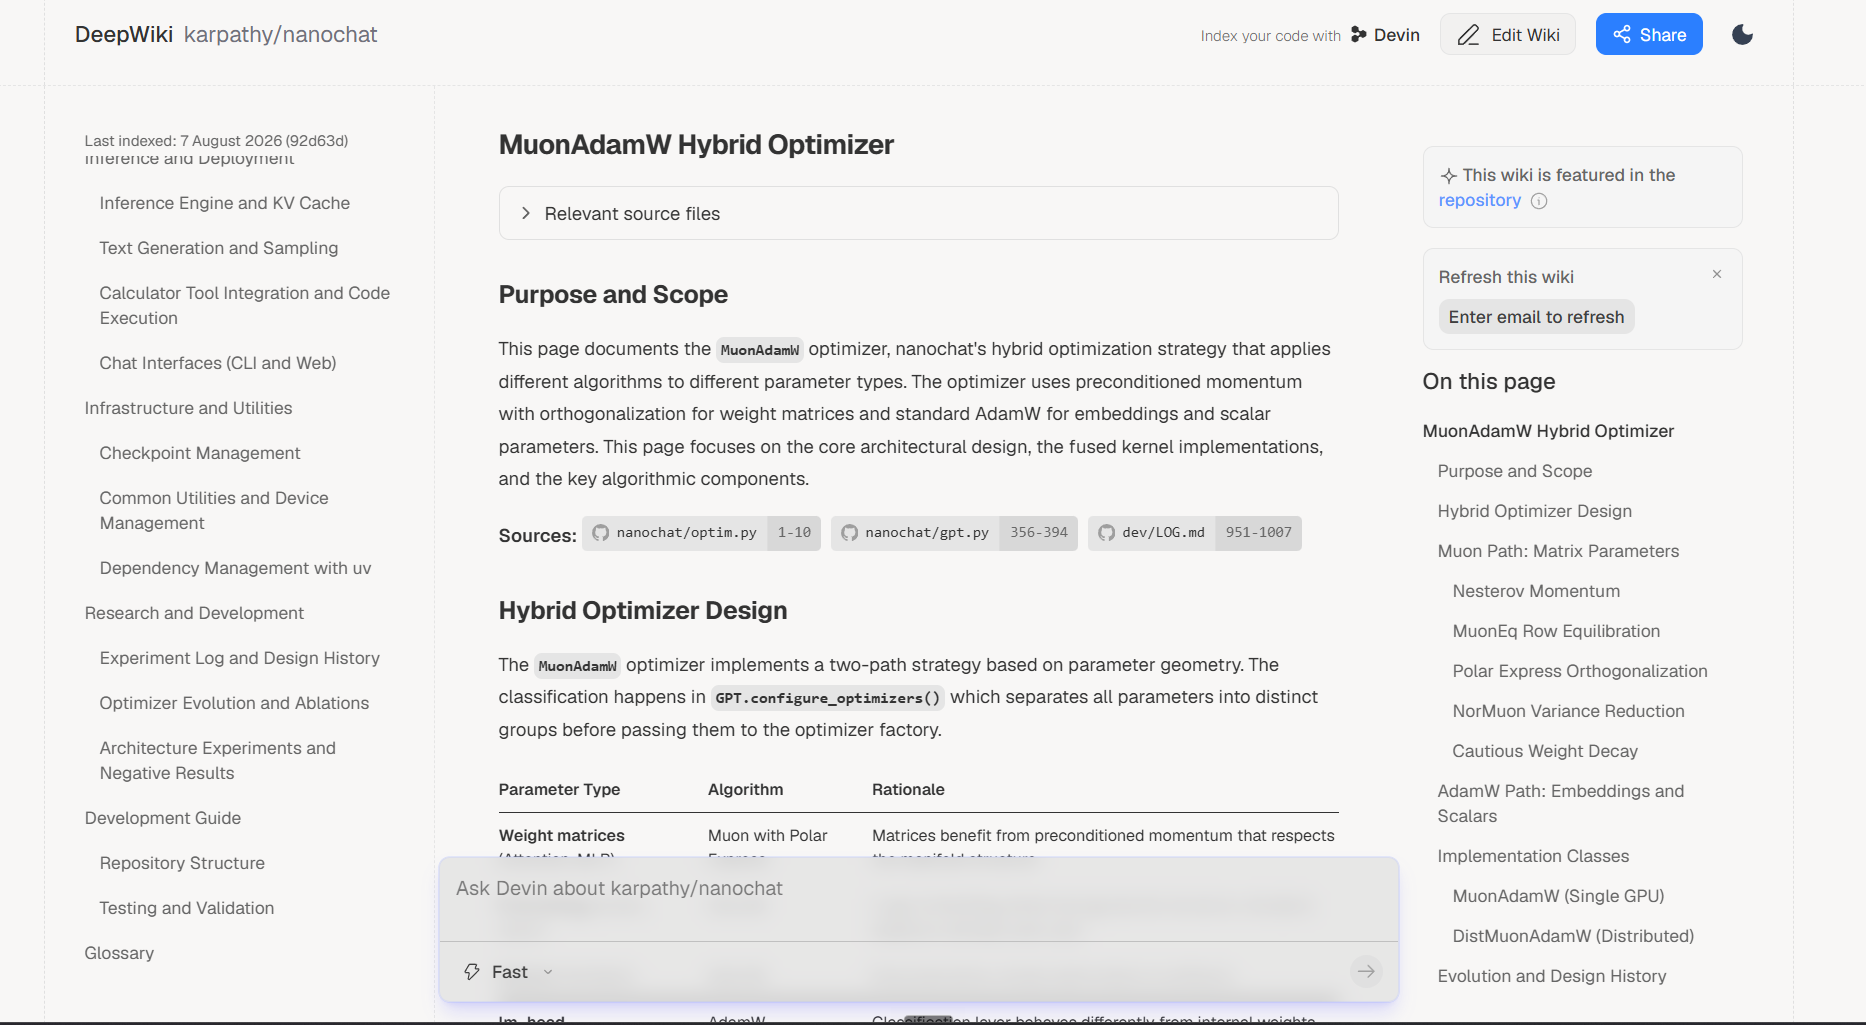
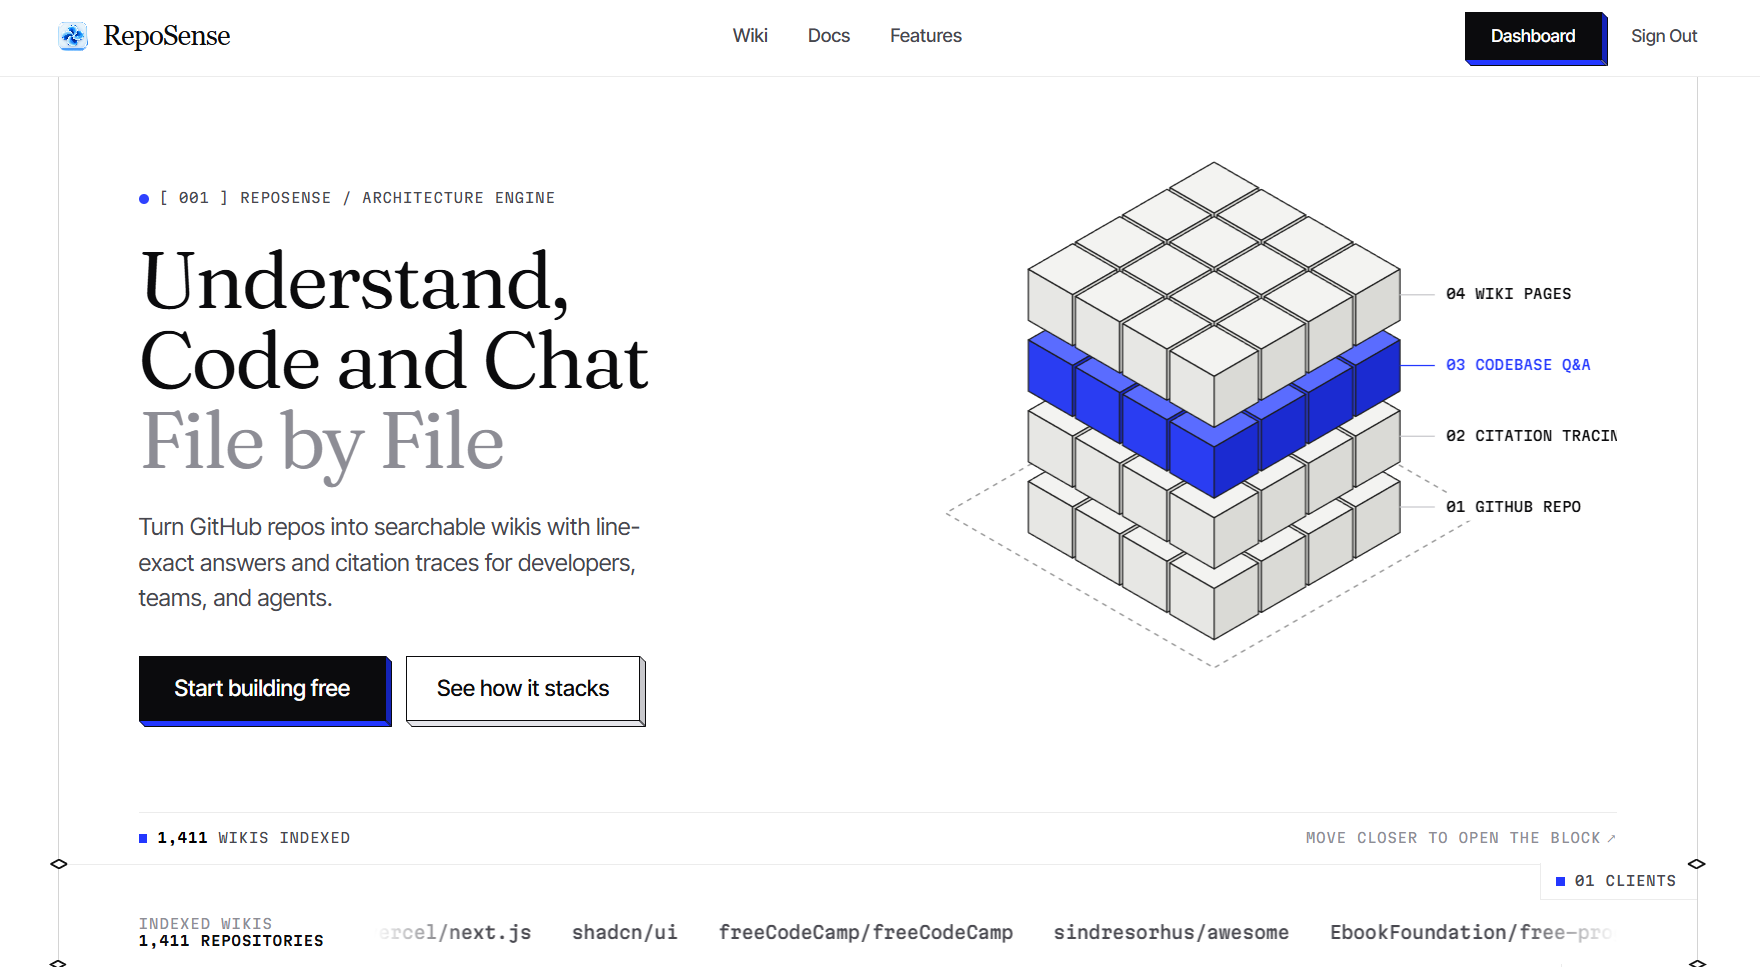
fix(auth): add edge runtime config to sign-in and sign-up pages

diff --git a/src/app/sign-in/[[...sign-in]]/page.tsx b/src/app/sign-in/[[...sign-in]]/page.tsx
@@ -1,5 +1,7 @@
 import { SignIn } from '@clerk/nextjs';
 
+export const runtime = 'edge';
+
 export default function Page() {
   return (
     <div className="flex min-h-screen items-center justify-center p-4">

diff --git a/src/app/sign-up/[[...sign-up]]/page.tsx b/src/app/sign-up/[[...sign-up]]/page.tsx
@@ -1,5 +1,7 @@
 import { SignUp } from '@clerk/nextjs';
 
+export const runtime = 'edge';
+
 export default function Page() {
   return (
     <div className="flex min-h-screen items-center justify-center p-4">
